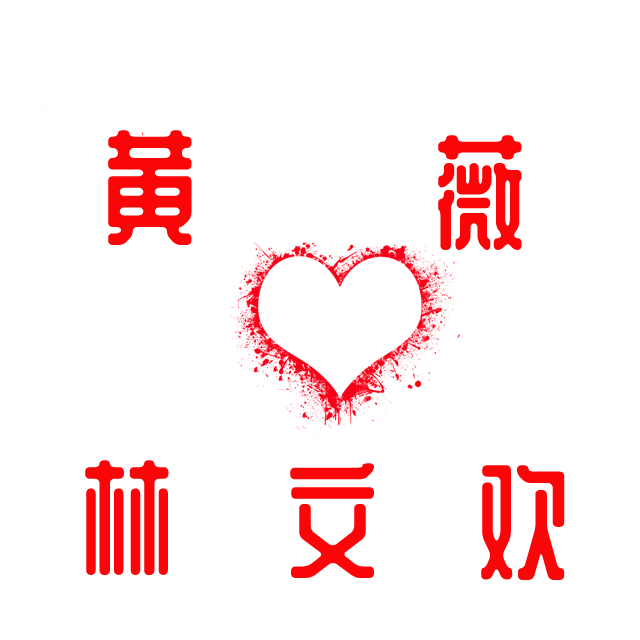
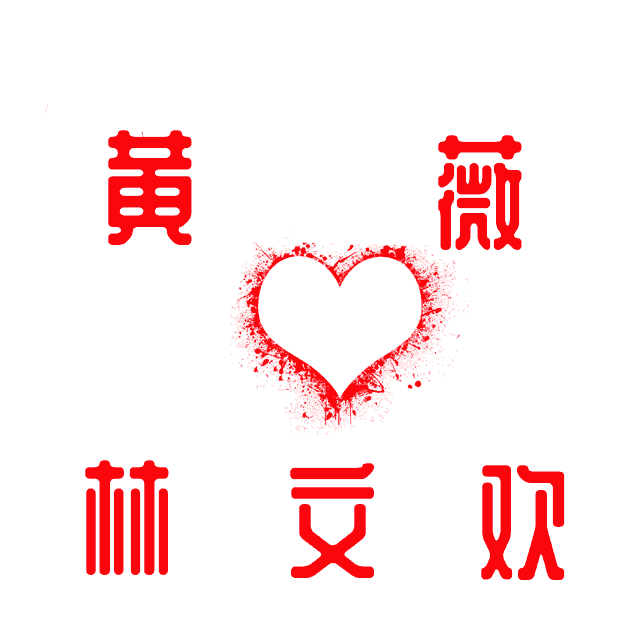
updata

Changed region(s): [[0.375, 0.375, 0.7188, 0.6875], [0.7812, 0.3125, 0.8125, 0.3438]]

diff --git a/index.html b/index.html
@@ -26,7 +26,7 @@
 
 <body youdao="bind">
   <canvas id="mycanvas" width="1870" height="921"></canvas>
-  <!-- <img id="tulip" style="width:100vw;height:30vh" src="./heart.png" alt="heart"> -->
+  <img id="tulip" style="width:100vw;height:30vh" src="./heart.png" alt="heart">
 
 <script src="./minify.js"></script>
 </body></html>
